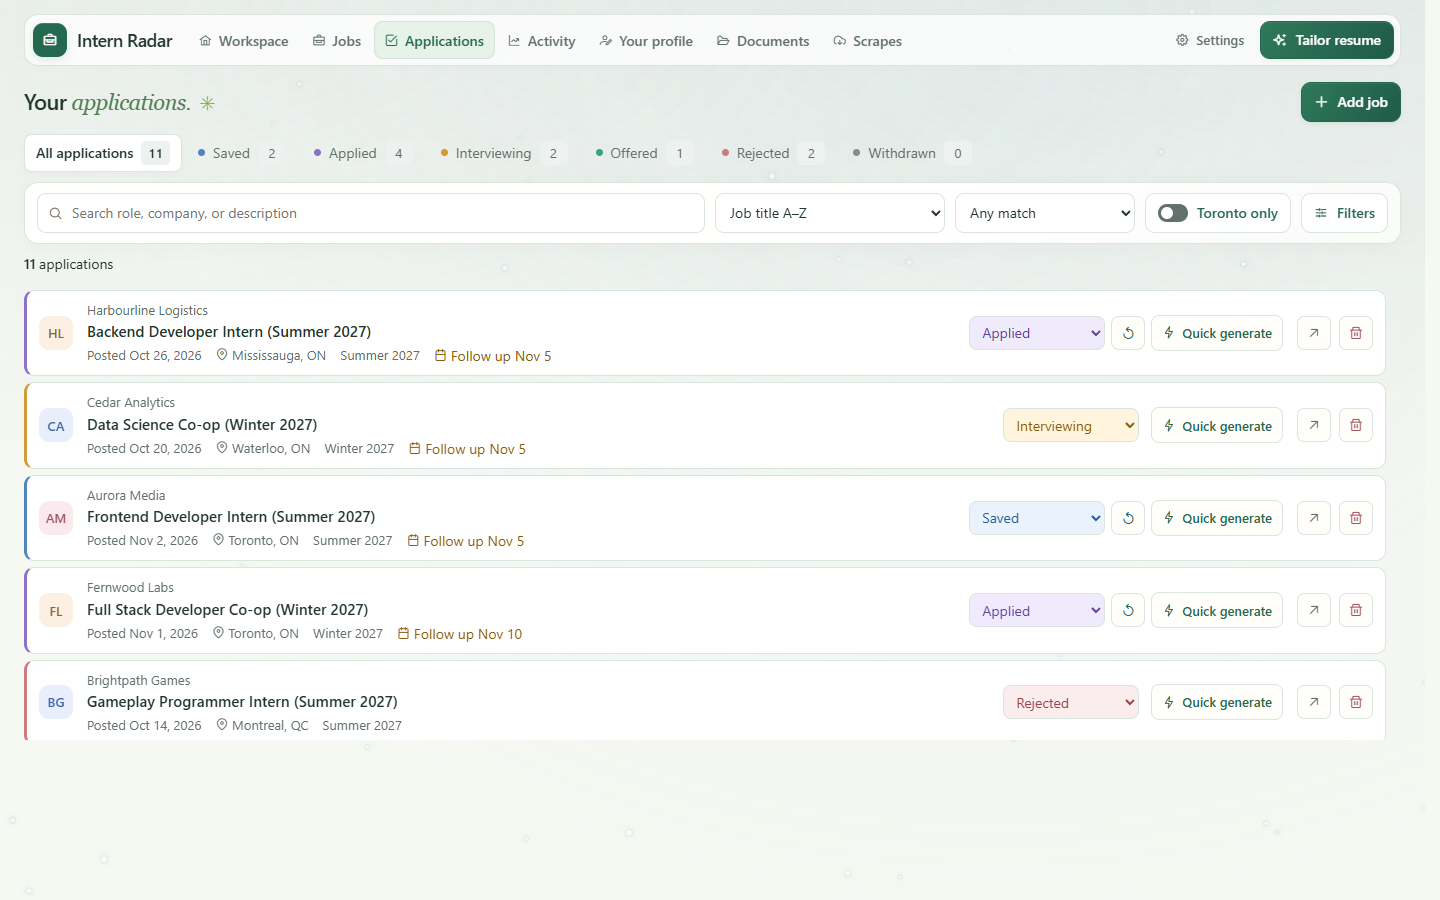
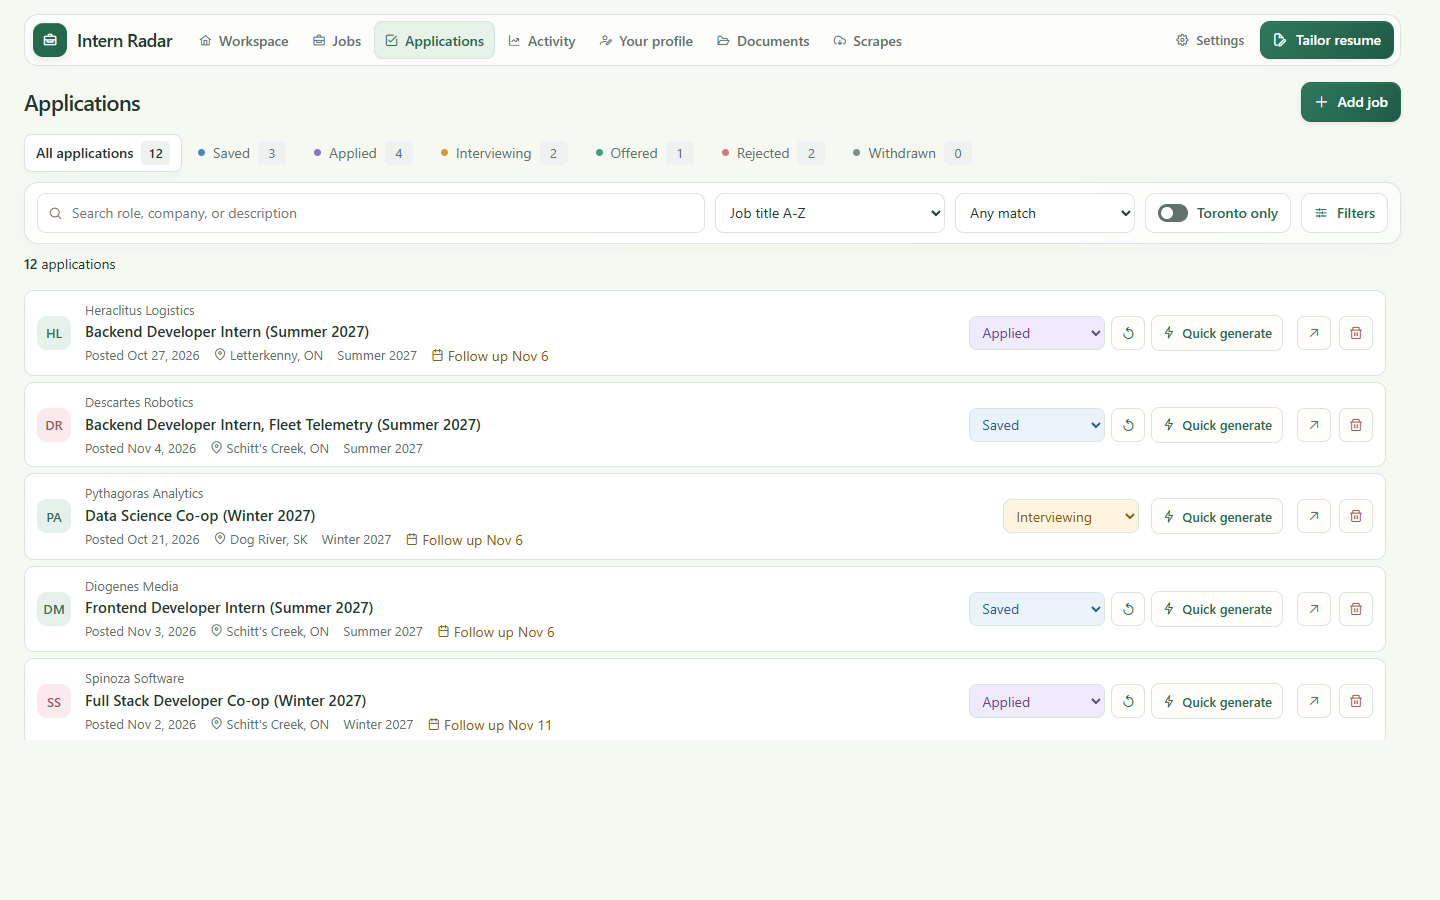
feat(app): options scaffolding

diff --git a/frontend/src/app/tailor/ai-options/ai-options.html b/frontend/src/app/tailor/ai-options/ai-options.html
@@ -1,0 +1,124 @@
+<section class="model-controls">
+  @if (loading()) {}
+  @if (error()) {
+    <p class="hint">{{ error() }}</p>
+  }
+  <div class="model-selection">
+    <label [for]="idPrefix() + (customModel() ? '-custom-model' : '-model')">{{
+      modelLabel() ?? label()
+    }}</label>
+    @if (customModel()) {
+      <input
+        [id]="idPrefix() + '-custom-model'"
+        type="text"
+        maxlength="200"
+        placeholder="Enter provider model ID"
+        autocomplete="off"
+        spellcheck="false"
+        [disabled]="disabled() || loading()"
+        [ngModel]="options().model"
+        (ngModelChange)="choose({ field: 'model', value: $event })"
+        [ngModelOptions]="{ standalone: true }"
+      />
+    } @else {
+      <p-select
+        [inputId]="idPrefix() + '-model'"
+        [options]="modelChoices()"
+        [filter]="true"
+        filterPlaceholder="Search models"
+        [showClear]="true"
+        [disabled]="disabled() || loading()"
+        placeholder="Server default"
+        appendTo="body"
+        [fluid]="true"
+        [ngModel]="options().model"
+        (ngModelChange)="choose({ field: 'model', value: $event })"
+        [ngModelOptions]="{ standalone: true }"
+      />
+    }
+    <button
+      type="button"
+      class="text-link"
+      [disabled]="disabled() || loading()"
+      (click)="customModel.set(!customModel())"
+    >
+      {{ customModel() ? 'Choose from model list' : 'Enter a model ID' }}
+    </button>
+    @if (catalogLoading()) {
+      <span class="hint">Loading models…</span>
+    }
+    @if (catalogError()) {
+      <span class="hint">{{ catalogError() }}</span>
+      <button
+        type="button"
+        class="text-link"
+        (click)="loadModels()"
+        [disabled]="disabled() || catalogLoading()"
+      >
+        Retry model list
+      </button>
+    }
+  </div>
+  <div class="model-selection effort-selection">
+    <label [for]="idPrefix() + '-effort'">Effort</label>
+    <p-select
+      [inputId]="idPrefix() + '-effort'"
+      [options]="efforts"
+      optionLabel="label"
+      optionValue="value"
+      [showClear]="true"
+      [disabled]="disabled() || loading()"
+      placeholder="Model default"
+      appendTo="body"
+      [fluid]="true"
+      [ngModel]="options().reasoning_effort"
+      (ngModelChange)="choose({ field: 'reasoning_effort', value: $event })"
+      [ngModelOptions]="{ standalone: true }"
+    />
+  </div>
+  <details class="parameters">
+    <summary>Parameters & pricing</summary>
+    <fieldset [disabled]="disabled() || loading()">
+      <label [for]="idPrefix() + '-temperature'"
+        >Temperature
+        <p-inputnumber
+          [inputId]="idPrefix() + '-temperature'"
+          [fluid]="true"
+          [useGrouping]="false"
+          [disabled]="disabled() || loading()"
+          [min]="0"
+          [max]="2"
+          [step]="0.1"
+          [maxFractionDigits]="2"
+          placeholder="Provider default"
+          [ngModel]="options().temperature"
+          (ngModelChange)="choose({ field: 'temperature', value: $event })"
+          [ngModelOptions]="{ standalone: true }"
+        />
+      </label>
+      <label [for]="idPrefix() + '-max-tokens'"
+        >Max output tokens
+        <p-inputnumber
+          [inputId]="idPrefix() + '-max-tokens'"
+          [fluid]="true"
+          [useGrouping]="false"
+          [disabled]="disabled() || loading()"
+          [min]="1"
+          [max]="1000000"
+          [step]="1"
+          [maxFractionDigits]="0"
+          placeholder="Provider default"
+          [ngModel]="options().max_output_tokens"
+          (ngModelChange)="choose({ field: 'max_output_tokens', value: $event })"
+          [ngModelOptions]="{ standalone: true }"
+        />
+      </label>
+    </fieldset>
+    <p class="hint">Optional overrides for this request.</p>
+  </details>
+  @if (!valid(options())) {
+    <p class="error">
+      Use a valid model name, a temperature from 0–2 and a positive whole token limit.
+    </p>
+  }
+</section>

diff --git a/frontend/src/app/tailor/ai-options/ai-options.scss b/frontend/src/app/tailor/ai-options/ai-options.scss
@@ -1,0 +1,112 @@
+:host {
+  display: block;
+  min-width: 0;
+}
+.model-controls {
+  min-width: 0;
+}
+.model-selection {
+  display: grid;
+  grid-template-columns: 88px minmax(0, 1fr);
+  align-items: center;
+  gap: 10px;
+}
+.model-selection > .hint,
+.model-selection > button {
+  grid-column: 2;
+}
+.model-selection > button {
+  justify-self: start;
+  font-size: 12px;
+}
+.text-link {
+  cursor: pointer;
+  border: 0;
+  padding: 0;
+  background: none;
+  color: var(--accent);
+  font-weight: 600;
+  text-decoration: none;
+}
+.text-link:hover:not(:disabled) {
+  color: var(--accent-hover);
+  text-decoration: underline;
+}
+.model-selection > input {
+  width: 100%;
+  min-width: 0;
+}
+.effort-selection,
+.provider-selection + .model-selection {
+  margin-top: 10px;
+}
+.provider-note {
+  animation: provider-note-settle 220ms ease-out;
+}
+@keyframes provider-note-settle {
+  from {
+    opacity: 0;
+    transform: translateY(-3px);
+  }
+  to {
+    opacity: 1;
+    transform: none;
+  }
+}
+.parameters {
+  margin: 4px 0 0 98px;
+}
+summary {
+  cursor: pointer;
+  color: var(--muted);
+  font-size: 13px;
+  min-height: 24px;
+}
+fieldset {
+  border: 0;
+  padding: 10px 0 0;
+  margin: 0;
+  min-width: 0;
+  display: grid;
+  grid-template-columns: repeat(2, minmax(0, 1fr));
+  gap: 10px;
+}
+label {
+  display: grid;
+  gap: 4px;
+  font-size: 14px;
+}
+p-select,
+p-inputnumber {
+  width: 100%;
+  min-width: 0;
+  font-size: 14px;
+}
+p-select {
+  min-height: 44px;
+  align-items: center;
+}
+:host ::ng-deep .p-inputnumber-input {
+  width: 100%;
+  min-width: 0;
+  font-size: 14px;
+}
+:host ::ng-deep .p-select-label {
+  overflow: hidden;
+  text-overflow: ellipsis;
+}
+.hint,
+.error {
+  font-size: 13px;
+  line-height: 1.5;
+  color: var(--muted);
+  margin: 8px 0;
+}
+.error {
+  color: #b42318;
+}
+@media (max-width: 520px) {
+  .parameters {
+    margin-left: 0;
+  }
+}

diff --git a/frontend/src/app/tailor/ai-output/ai-output.ts b/frontend/src/app/tailor/ai-output/ai-output.ts
@@ -1,0 +1,1 @@
+import { DatePipe } from '@angular/common';
